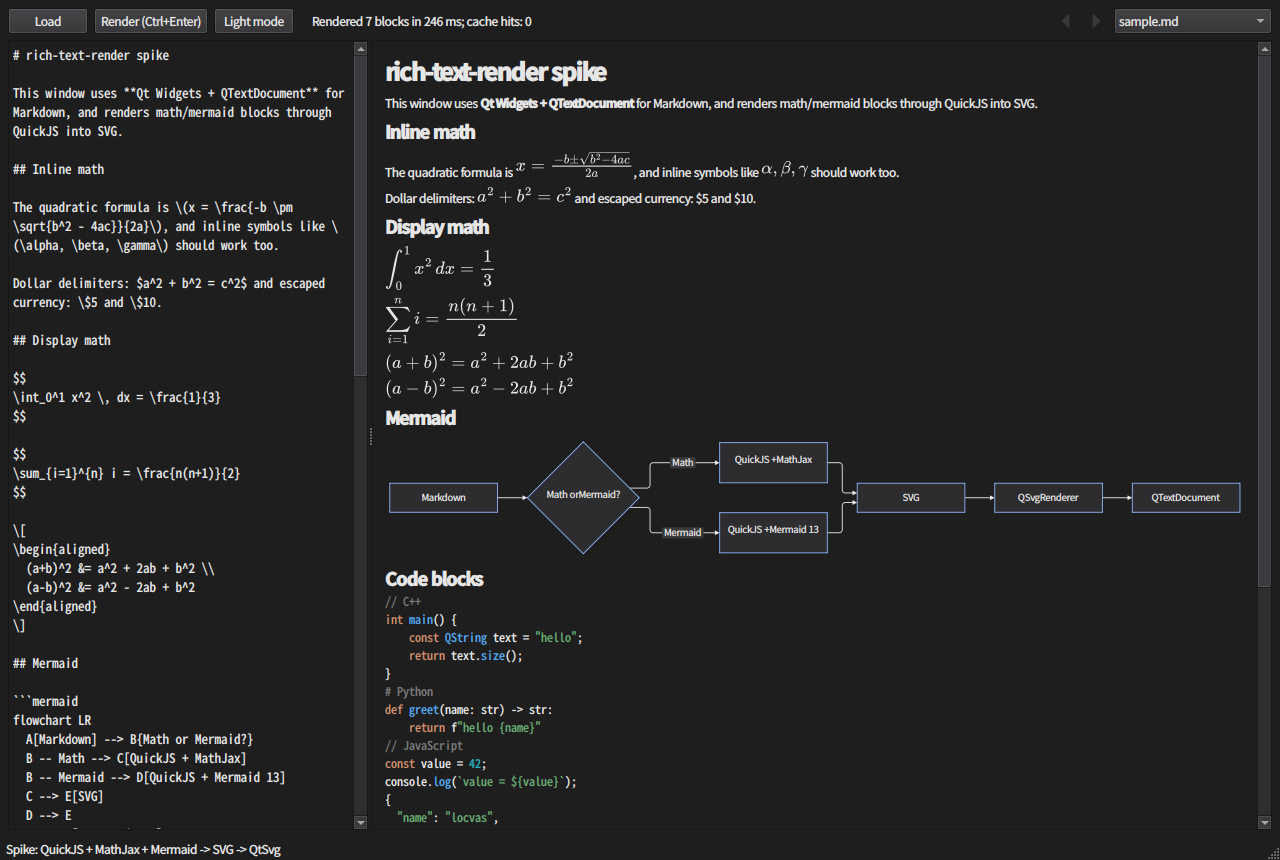
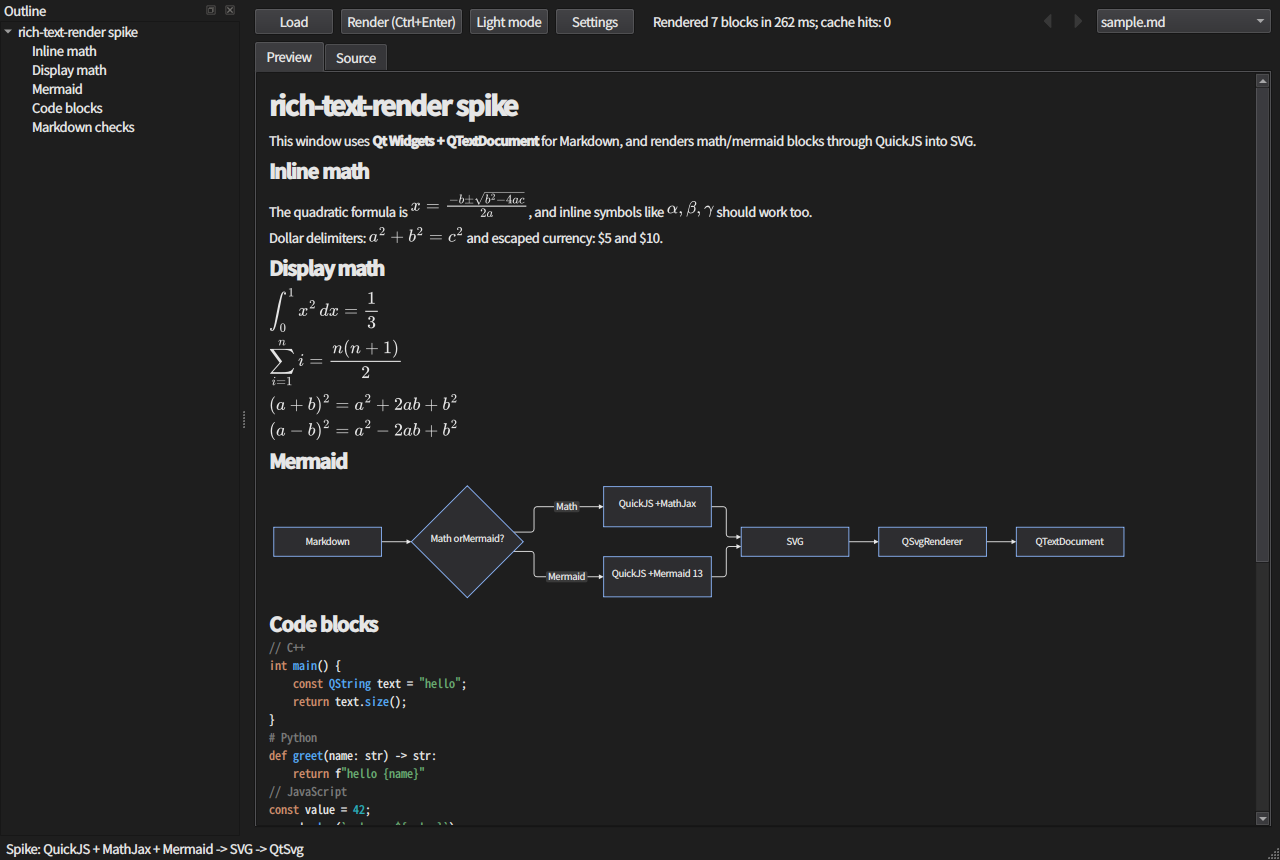
docs: document the outline, read-only source, and settings system
Update the architecture and module tables for MarkdownOutline, MarkdownSourceHighlighter, OutlinePanel, AppSettings, and SettingsDialog. Document the left outline dock, Preview and Source tabs, read-only source behavior, Markdown source coloring, and outline navigation.

Document the settings template and user override locations, all supported appearance/view/preview/renderer keys, both font-size settings, the Settings dialog groups, runtime application behavior, and the session-only --dark override. Explain that the template remains read-only and packaged while QSettings writes user overrides separately.

Update the test inventory for the twelve module tests and the AppImage packaging steps for the bundled template. Refresh the dark AppImage screenshot with the outline dock, Preview/Source tabs, and Settings toolbar action.

Record the known boundaries: no document editing or saving, no current-section outline synchronization, and no external syntax highlighting backend.

diff --git a/README.md b/README.md
@@ -63,8 +63,10 @@
 ```mermaid
 flowchart LR
   subgraph UI["Qt Widgets"]
-    Editor["Markdown editor"]
+    Editor["Read-only source"]
     Preview["QTextBrowser preview"]
+    Outline["Outline dock"]
+    Settings["Settings dialog"]
     Theme["Theme / palette"]
     Nav["Back / Forward<br/>history dropdown"]
   end
@@ -72,6 +74,9 @@ flowchart LR
   subgraph Core["C++ modules"]
     MD["MarkdownPreprocessor<br/>scan + placeholders"]
     MDB["MarkdownDocumentBuilder<br/>SVG object insertion"]
+    OutlineModel["MarkdownOutline<br/>heading entries"]
+    SourceHL["MarkdownSourceHighlighter<br/>Qt source coloring"]
+    SettingsStore["AppSettings<br/>template + QSettings"]
     RS["RendererService<br/>queue + single-flight"]
     Cache["SvgCache<br/>content-addressed storage"]
     San["SvgSanitizer<br/>QtSvg normalization"]
@@ -102,6 +107,10 @@ flowchart LR
   MDB --> Obj
   Obj --> Doc
   Doc --> Preview
+  Editor --- SourceHL
+  Doc --> OutlineModel
+  OutlineModel --> Outline
+  Settings --> SettingsStore
   Preview --> Link
   Link --> Resolver
   Link -->|"local file"| Files
@@ -151,10 +160,14 @@ cache key = SHA256(
 
 | 模块             | 路径                                  | 职责                                                 |
 | ---------------- | ------------------------------------- | ---------------------------------------------------- |
-| 应用入口         | `src/main.cpp`                        | 命令行参数、主题初始值、截图模式                     |
-| 主窗口           | `src/MainWindow.*`                    | 编辑器/预览 splitter、工具栏、主题切换、异步渲染编排 |
+| 应用入口         | `src/main.cpp`                        | 命令行参数、主题覆盖、截图模式                       |
+| 主窗口           | `src/MainWindow.*`                    | 标签页、工具栏、目录 dock、主题、设置和异步渲染编排  |
 | Markdown 预处理  | `src/MarkdownPreprocessor.*`          | 扫描 math/mermaid、生成 token、保护 code span        |
 | 文档构建         | `src/MarkdownDocumentBuilder.*`       | 插入 SVG 对象、token 错误替换、尺寸归一化            |
+| 文档目录         | `src/MarkdownOutline.*`               | 从 `QTextDocument` 标题提取层级、标题和 block 编号   |
+| Source 高亮      | `src/MarkdownSourceHighlighter.*`     | 只读 Source 的 Markdown 语法着色，不参与渲染         |
+| 应用设置         | `src/AppSettings.*`                   | 只读模板默认值、QSettings 用户覆盖、范围校验         |
+| 设置对话框       | `src/SettingsDialog.*`                | Appearance / View / Preview / Advanced 设置编辑      |
 | 渲染服务         | `src/RendererService.*`               | single-flight、队列、generation 取消                 |
 | Worker 进程      | `src/RendererWorker.*`                | 懒启动 qjs、NDJSON、超时、idle、内存/CPU 限制        |
 | SVG 缓存         | `src/SvgCache.*`                      | SHA-256 key、文件读写、版本隔离                       |
@@ -163,6 +176,7 @@ cache key = SHA256(
 | 本地文件加载     | `src/LocalFileLoader.*`               | 存在性、目录、大小、二进制检测、UTF-8/UTF-16 解码    |
 | 本地历史         | `src/NavigationHistory.*`             | 双向链表、最多 64 条、back/forward、最新优先列表     |
 | 代码高亮         | `src/CodeHighlighter.*`               | `BlockCodeLanguage` + `QSyntaxHighlighter`           |
+| 目录面板         | `src/OutlinePanel.*`                  | 左侧标题树、层级组织和 block 跳转信号                |
 | SVG 对象绘制     | `src/SvgObjectHandler.*`              | `QTextObjectInterface` 直接绘制 SVG，不常驻 QImage   |
 | SVG 归一化       | `src/SvgSanitizer.*`                  | CSS 变量、颜色、尺寸、深色主题、基础安全清理         |
 | 主题             | `src/Theme.*`                         | 浅色/深色 QPalette                                   |
@@ -182,9 +196,9 @@ cache key = SHA256(
 
 | CMake 目标 | 内容 | 依赖 |
 |---|---|---|
-| `rich-text-render-core` | Markdown 预处理、链接解析、本地文件、历史、SVG 缓存、渲染服务与 worker | `Qt6::Core` |
-| `rich-text-render-document` | 文档构建、SVG 归一化、SVG 对象、代码高亮 | `Qt6::Gui`、`Qt6::Svg` |
-| `rich-text-render-ui` | 主窗口、链接交互、主题 | 前两个库、`Qt6::Widgets` |
+| `rich-text-render-core` | Markdown 预处理、应用设置、链接解析、本地文件、历史、SVG 缓存、渲染服务与 worker | `Qt6::Core` |
+| `rich-text-render-document` | 文档构建、标题目录、Source 高亮、SVG 归一化、SVG 对象、代码高亮 | `Qt6::Gui`、`Qt6::Svg` |
+| `rich-text-render-ui` | 主窗口、目录面板、设置对话框、链接交互、主题 | 前两个库、`Qt6::Widgets` |
 | `rich-text-render` | 应用入口 | `rich-text-render-ui` |
 
 依赖方向固定为：
@@ -214,6 +228,46 @@ main -> ui -> { core, document }
 
 当前不启用该后端；这条路线只作为后续维护期的可选替换项记录。
 
+### 配置与设置
+
+完整默认模板位于：
+
+```text
+config/settings.ini
+```
+
+AppImage 内路径：
+
+```text
+usr/share/rich-text-render/config/settings.ini
+```
+
+模板是只读默认值来源，包含所有用户可配置项和说明注释。用户修改通过 QSettings 写入独立文件，避免 QSettings 重写模板时丢失注释：
+
+```text
+QStandardPaths::AppConfigLocation/settings.ini
+```
+
+Linux 上通常为：
+
+```text
+~/.config/locvas-spike/rich-text-render-spike/settings.ini
+```
+
+配置项：
+
+- `appearance.theme`：light / dark；
+- `appearance.uiFontPointSize`：应用与预览字号，8–18；
+- `appearance.sourceFontPointSize`：只读 Source 字号，8–24；
+- `appearance.sourceHighlighting`：Source Markdown 高亮开关；
+- `view.outlineVisible`：左侧目录面板；
+- `view.sourceVisible`：Source tab；
+- `preview.maxSvgWidth`：预览 SVG 最大宽度；
+- `renderer.idleTimeoutMs`、`mathRequestTimeoutMs`、`mermaidRequestTimeoutMs`；
+- `files.lastDirectory`、`window.geometry`：运行状态持久化。
+
+Settings 对话框提供 Appearance、View、Preview、Advanced 四组设置，并包含 Restore Defaults。命令行 `--dark` 只覆盖当前会话，不会自动写入用户配置。
+
 ## 4. 构建
 
 ### 脚本方式
@@ -235,11 +289,14 @@ scripts/mem-bench.sh
 
 - `link-resolver-test`：scheme、base URL、本地路径和 canonical path；
 - `link-handler-test`：本地文件信号、标题锚点和 GitHub slug；
-- `main-window-startup-test`：空白启动、空历史和显式文件加载；
+- `main-window-startup-test`：空白启动、空历史、显式加载、目录和设置应用；
+- `app-settings-test`：模板默认值、用户覆盖、校验、读写和默认路径；
+- `settings-dialog-test`：设置加载、编辑、恢复默认和保留非对话框状态；
 - `markdown-preprocessor-test`：数学、Mermaid、fenced code 和货币误判；
+- `markdown-outline-test`：标题层级、token 标签、block 顺序和空目录；
 - `svg-cache-test`：cache key、display/theme 隔离和内容读写；
 - `svg-sanitizer-test`：CSS 变量、颜色、尺寸、脚本和事件属性清理；
-- `document-rendering-test`：代码高亮、SVG 插入和错误替换；
+- `document-rendering-test`：代码高亮、Source 高亮、fenced code 状态、SVG 插入和错误替换；
 - `navigation-history-test`：back/forward、forward 截断和 64 条上限；
 - `local-file-loader-test`：文本/二进制/目录/缺失文件/UTF-16/大小限制。
 
@@ -292,18 +349,33 @@ cmake --build build -j"$(nproc)"
 
 窗口包含：
 
-- 左侧 Markdown 编辑器；
-- 右侧渲染预览；
+- 左侧 `Outline` 目录 dock；
+- 中央 `Preview` / `Source` 标签页；
+- `Source` 为只读视图，支持 Markdown 语法高亮；
 - `Load`：打开本地 Markdown 或文本文件；
 - `Render (Ctrl+Enter)`；
 - **`Dark mode` / `Light mode` 切换按钮**；
+- `Settings`：编辑字体、视图、预览和渲染器超时；
 - 右上角 `Back` / `Forward` 和本地文件历史下拉框。
 
 启动行为：
 
-- 默认不加载任何文档，编辑器和预览为空，历史也为空；
+- 默认不加载任何文档，Preview、Source 和 Outline 均为空，历史也为空；
 - 使用 `Load` 或 `--file` 后才打开文件；
 - `sample.md` 保留在项目 `samples/` 目录中，但应用代码不硬编码该路径，不会自动加载，也不打包进 AppImage。
+
+目录行为：
+
+- 从 Qt 生成的 `QTextDocument` 标题层级提取；
+- 点击条目切换到 Preview 并滚动到对应 block；
+- 标题中的数学/Mermaid token 使用可读替代文字；
+- 默认显示在左侧，可在 Settings 中隐藏。
+
+Source 行为：
+
+- 只读，不提供表单式编辑或文件保存；
+- Markdown 语法高亮使用 Qt `QSyntaxHighlighter`；
+- 可在 Settings 中调整 Source 字号或隐藏 Source tab。
 
 链接行为：
 
@@ -324,8 +396,8 @@ cmake --build build -j"$(nproc)"
 - 列表只显示文件名，tooltip 显示完整路径；
 - 选中历史项会直接切换文件，不新增重复记录。
 
-> 本地历史目前只保存文件路径，不保存滚动位置、锚点或编辑器未保存内容。
-> 通过链接、Back/Forward 或下拉列表切换文件时，编辑器中的未保存修改会被替换。
+> 本地历史目前只保存文件路径，不保存滚动位置或锚点。
+> Source 是只读视图，不提供编辑保存能力，因此导航切换不会产生未保存文档内容。
 
 切换主题会重新渲染当前文档，MathJax 使用新的前景色，Mermaid 使用新的主题。
 
@@ -384,8 +456,9 @@ scripts/package-appimage.sh
 1. 用 `linuxdeploy --plugin qt` 把 Qt 依赖/插件部署到 `AppDir`；
 2. 复制 `qjs` 到 `AppDir/usr/bin/qjs`；
 3. 复制 `renderer/dist/*.mjs` 到 `AppDir/usr/share/rich-text-render/renderer/dist/`；
-4. 写入 `AppRun`、desktop、icon；
-5. 用 `appimagetool` 生成 `dist/rich-text-render-x86_64.AppImage`。
+4. 复制 `config/settings.ini` 到 `AppDir/usr/share/rich-text-render/config/`；
+5. 写入 `AppRun`、desktop、icon；
+6. 用 `appimagetool` 生成 `dist/rich-text-render-x86_64.AppImage`。
 
 脚本默认使用：
 
@@ -437,7 +510,7 @@ QT_QPA_PLATFORM=offscreen ./dist/rich-text-render-x86_64.AppImage \
 1. 固定 Qt、QuickJS、Node、linuxdeploy、appimagetool 版本；
 2. 在干净的 Fedora/Ubuntu 虚拟机跑 AppImage smoke test；
 3. 用真实 AI 输出语料做 Markdown/MathJax/Mermaid 回归；
-4. 校验 AppImage 内 `qjs` 和 JS bundles 的路径；
+4. 校验 AppImage 内 `qjs`、JS bundles 和 `config/settings.ini` 的路径；
 5. 把 `scripts/package-appimage.sh` 拆成 CI job，产物上传到 release；
 6. 处理 `linuxdeploy` 在 Fedora `.relr.dyn` 上的 strip 报错（固定打包基础镜像或关闭 strip）。
 
@@ -449,6 +522,8 @@ QT_QPA_PLATFORM=offscreen ./dist/rich-text-render-x86_64.AppImage \
 - 数学分隔符支持 `\(...\)`、`$...$`、`$$...$$`、`\[...\]`；
 - 代码块已支持 C++/Python/JS/JSON/Bash/LaTeX 高亮；
 - 当前高亮器是项目内 `CodeHighlighter`（正则近似），不包含 KSyntaxHighlighting；替换依赖和迁移条件见“高亮后端与依赖边界”；
+- Source 高亮也是 Qt `QSyntaxHighlighter` 的轻量规则，不是完整 Markdown parser；
+- 目录尚未根据滚动位置高亮当前节；
 - 代码块背景、边框、行距仍可继续打磨；
 - Mermaid 不是生产版本，固定为 `13.0.0-alpha.3`；
 - Mermaid full worker 已启用；常用图 24/24 smoke test 通过，但 alpha 版本的全部 33 种图仍需完整回归；
@@ -458,6 +533,7 @@ QT_QPA_PLATFORM=offscreen ./dist/rich-text-render-x86_64.AppImage \
 
 ### 交互
 
+- Source 只读，没有编辑、保存或外部修改同步；
 - 没有每条消息复制；
 - 没有代码块复制；
 - 没有跨消息任意拖选；
@@ -485,6 +561,13 @@ QT_QPA_PLATFORM=offscreen ./dist/rich-text-render-x86_64.AppImage \
 - cache key 已包含渲染器版本、kind、source、options、Mermaid 主题；
 - 未包含 DPI/字体/主题色（MathJax 的颜色在嵌入时处理，但未来加主题色时需要扩展）；
 - 没有缓存清理/容量控制。
+
+### 配置
+
+- 模板是只读默认值，实际用户修改写入独立的 QSettings 文件；
+- QSettings 保存用户文件时不会保留手工写在用户文件中的注释；
+- 窗口几何、最近目录和可见性会持久化，但不会持久化打开过的文档内容；
+- Settings 对话框暂不直接编辑模板文件路径或 `window.geometry` 原始值。
 
 ### 安全
 
@@ -522,6 +605,7 @@ QT_QPA_PLATFORM=offscreen ./dist/rich-text-render-x86_64.AppImage \
 src/                    Qt Widgets 应用与渲染/缓存逻辑
 renderer/               MathJax/Mermaid 的 QuickJS bundle
 third_party/quickjs-ng  QuickJS-ng submodule
+config/                 完整 settings.ini 默认模板
 samples/                demo Markdown（sample.md）
 tests/sources/          测试输入：公式 / Mermaid / 基准 Markdown
 tools/svgcheck.cpp      SVG -> PNG 的 QtSvg 检查工具

diff --git a/docs/FLOW.md b/docs/FLOW.md
@@ -1,6 +1,6 @@
 # 程序流程图
 
-> 对应代码：`src/main.cpp`、`src/MainWindow.cpp`、`src/RendererService.cpp`、`src/RendererWorker.cpp`、`src/MarkdownPreprocessor.cpp`、`src/MarkdownDocumentBuilder.cpp`、`src/SvgObjectHandler.cpp`
+> 对应代码：`src/main.cpp`、`src/MainWindow.cpp`、`src/AppSettings.cpp`、`src/RendererService.cpp`、`src/RendererWorker.cpp`、`src/MarkdownPreprocessor.cpp`、`src/MarkdownDocumentBuilder.cpp`、`src/MarkdownOutline.cpp`、`src/OutlinePanel.cpp`、`src/SettingsDialog.cpp`、`src/SvgObjectHandler.cpp`
 >
 > 本文件只放流程图；架构与模块说明见 [README.md](../README.md)、[ADR-0001](ADR-0001-rendering-pipeline.md)。
 
@@ -13,17 +13,20 @@ sequenceDiagram
     autonumber
     participant M as main()
     participant W as MainWindow
+    participant A as AppSettings
     participant S as RendererService
     participant E as 事件循环
 
     M->>M: QApplication + org/app 名
     M->>M: 解析 --file / --dark / --screenshot / --toggle-theme
     M->>W: 构造 MainWindow(dark)
-    W->>W: applyTheme() + 注册 SvgObjectHandler
-    W->>W: 创建按钮 / 编辑器 / 预览 / splitter
-    W->>W: 创建 MarkdownLinkHandler、back/forward、历史下拉框
+    W->>A: load()（模板默认值 + QSettings 用户覆盖）
+    W->>W: 应用 UI 字号、Source 字号、主题、窗口几何
+    W->>W: 创建按钮 / Outline / Preview+Source tabs / history
+    W->>W: 应用 Outline/Source 可见性和 source highlighter
+    W->>W: 注册 SvgObjectHandler 和 MarkdownLinkHandler
     W->>S: new RendererService(this)
-    W->>S: configure(qjs, math worker, mermaid worker, cacheDir, version, idleMs)
+    W->>S: configure(qjs, workers, cache, version, idle/timeouts)
     W->>W: connect 信号槽 + Ctrl+Return
     W->>W: updateHistoryUi()（空历史）
     M->>W: show()
@@ -32,7 +35,7 @@ sequenceDiagram
         W->>W: history.visit() + renderNow()
     end
     opt 有 --toggle-theme
-        M->>W: singleShot(1500) → toggleTheme()
+        M->>W: singleShot(1500) → setDarkMode(!isDarkMode())
     end
     opt 有 --screenshot
         M->>W: singleShot(8000) → grab().save()
@@ -65,6 +68,8 @@ sequenceDiagram
     MW->>TD: setMarkdown(markdown)
     Note over TD: math/mermaid 已变成文本 token<br/>代码块保留并带 BlockCodeLanguage
     MW->>TD: CodeHighlighter::rehighlight()
+    MW->>MW: MarkdownOutline::fromDocument(TD) → OutlinePanel
+    MW->>MW: Source tab 使用 MarkdownSourceHighlighter
 
     loop 每个 block
         MW->>RS: renderMath() / renderMermaid()
@@ -210,6 +215,32 @@ flowchart LR
 - 最新记录在链表尾部；UI 反转后最新在上；
 - 下拉框只显示文件名，tooltip 保存完整路径；
 - 打开失败时回滚历史游标，不把坏记录留在当前位置。
+
+### 4.4 目录与设置
+
+```mermaid
+flowchart TD
+    A["renderNow / setMarkdown"] --> B["MarkdownOutline::fromDocument"]
+    B --> C["OutlinePanel::setEntries"]
+    C --> D["点击标题"]
+    D --> E["切换到 Preview + scrollPreviewToBlock"]
+
+    F["Settings 按钮"] --> G["同步 Outline/Source 可见性"]
+    G --> H["SettingsDialog(current, defaults)"]
+    H --> I["accept"]
+    I --> J["applySettings(previous)"]
+    J --> K["应用字体/主题/宽度/超时"]
+    J --> L["保存 QSettings 用户覆盖"]
+
+    M["config/settings.ini"] --> N["AppSettings::defaults()"]
+    O["用户 settings.ini"] --> P["AppSettings::load()"]
+    N --> P
+```
+
+- 模板只读，用户覆盖写入 `QSettings`；
+- `--dark` 只覆盖当前会话；
+- Source 只读，Markdown 高亮在 Source 文档上运行；
+- 目录条目保存 blockNumber，不依靠生成 anchor。
 
 ---
 

diff --git a/TODO.md b/TODO.md
@@ -283,7 +283,12 @@
 - [x] 抽出独立 `LinkResolver` 和 `SvgCache`
 - [x] 建立 `rich-text-render-core`、`rich-text-render-document`、`rich-text-render-ui` 三个静态库
 - [x] 删除未参与构建的 `RendererClient`
-- [x] 模块测试：`link-resolver-test`、`link-handler-test`、`main-window-startup-test`、`markdown-preprocessor-test`、`svg-cache-test`、`svg-sanitizer-test`、`document-rendering-test`、`navigation-history-test`、`local-file-loader-test`
+- [x] Source 改为只读 tab，使用 Qt `QSyntaxHighlighter` 做 Markdown 语法高亮
+- [x] `MarkdownOutline` 从 `QTextDocument` 提取标题，左侧 Outline dock 点击跳转
+- [x] `AppSettings` 使用只读模板默认值 + QSettings 用户覆盖
+- [x] `config/settings.ini` 完整配置模板，打包进 AppImage
+- [x] Settings 对话框：Appearance / View / Preview / Advanced，支持字体大小、主题、目录和 Source 可见性
+- [x] 模块测试：`link-resolver-test`、`link-handler-test`、`main-window-startup-test`、`app-settings-test`、`settings-dialog-test`、`markdown-preprocessor-test`、`markdown-outline-test`、`svg-cache-test`、`svg-sanitizer-test`、`document-rendering-test`、`navigation-history-test`、`local-file-loader-test`
 - [x] 启动默认空白，`Load` 打开文件选择器，`--file` 显式加载；应用代码不再硬编码 `sample.md` 路径
 - [x] 记录 KSyntaxHighlighting 的未来依赖和迁移边界；当前只使用 Qt `QSyntaxHighlighter`
 
@@ -302,13 +307,16 @@ scripts/package-appimage.sh
 ## 当前维护边界
 
 - Markdown 功能冻结为 Qt importer 加现有预处理器支持的子集，不新增 front matter、脚注、GFM 扩展或自写 parser；
+- Source 是只读查看器，不进入文档编辑、保存、外部修改同步或 dirty 状态范围；
 - 代码高亮继续使用 Qt `QSyntaxHighlighter` 和 `CodeHighlighter`，不在当前阶段引入 KSyntaxHighlighting；
+- 配置系统使用只读 `config/settings.ini` 模板和 QSettings 用户覆盖，不新增其他配置框架；
 - 维护期只处理正确性 bug、安全问题、依赖升级、Qt/发行版兼容、性能回归、测试和打包；
-- 已记录但暂不实现的能力：代码块复制、跨消息选区、图片资源策略、可见区域优先队列、KSyntaxHighlighting 替换。
+- 已记录但暂不实现的能力：代码块复制、跨消息选区、图片资源策略、可见区域优先队列、当前节滚动高亮、KSyntaxHighlighting 替换。
 
 ## 非目标 / 不再讨论
 
 - QtWebEngine
+- 文档编辑、保存和 dirty 状态（Source 只读）
 - QML / MarkQml 渲染链路
 - 自写 TeX 布局
 - 自写 Mermaid 布局
